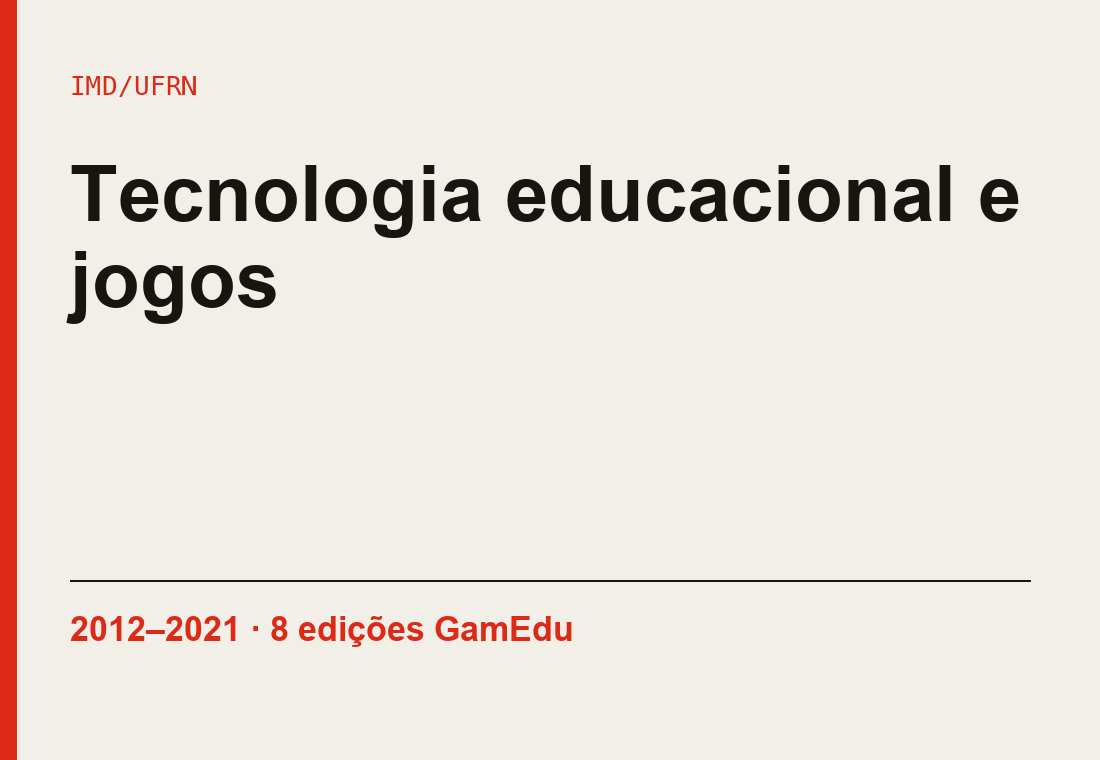
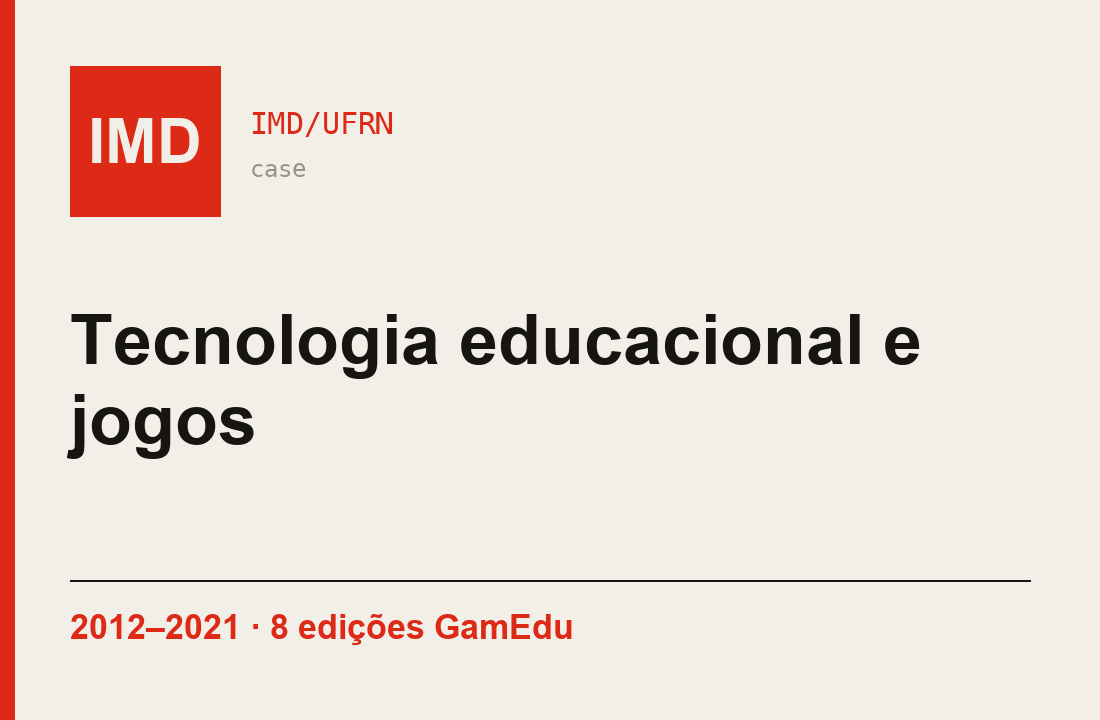
feat: home mais coesa, cases ampliados com capas-símbolo, CV completo, layout largo (1400px) e menos rolagem no desktop

diff --git a/assets/css/main.scss b/assets/css/main.scss
@@ -1,0 +1,57 @@
+---
+# Only the main Sass file needs front matter (the dashes are enough)
+---
+@charset "utf-8";
+
+/* Built-in Sass modules you’ll likely use across partials */
+@use "sass:math";
+@use "sass:string";
+
+/* Configure your design tokens BEFORE loading any of your partials.
+   Make sure `_sass/_variables.scss` declares `$max-content-width: 72rem !default;` */
+@use "variables" with (
+  $max-content-width: {{ site.max_width | default:  "930px" }}
+);
+
+/* Your project partials — convert these files to `@use "variables";`
+   (or `@use "variables" as *;`) inside each file and qualify variables if needed. */
+@use "themes";
+@use "layout";
+
+// Core styles organized by usage
+@use "typography";
+@use "navbar";
+@use "footer";
+@use "blog";
+@use "publications";
+@use "components";
+@use "utilities";
+
+// Other specialized styles
+@use "tabs";
+@use "teachings";
+@use "typograms";
+
+/* =========================================================
+   Customizações do site (Carlos Artur Guimarães)
+   Objetivo: ocupar melhor a tela do notebook e reduzir a
+   rolagem vertical no desktop (rolagem fica sobretudo no mobile).
+   ========================================================= */
+
+/* menos respiro no topo do conteúdo */
+.container.mt-5 { margin-top: 1.25rem !important; }
+
+/* ritmo vertical mais compacto no desktop */
+@media (min-width: 992px) {
+  .post p { margin-bottom: 0.65rem; line-height: 1.5; }
+  .post h1.post-title { margin-bottom: 0.35rem; }
+  .post h2 { margin-top: 1.1rem; margin-bottom: 0.5rem; }
+  .profile.float-right { margin-left: 2rem; margin-bottom: 0.5rem; }
+  /* cards de cases um pouco mais baixos */
+  .projects .grid-item, .projects .card { margin-bottom: 1rem; }
+  .projects .card-body { padding: 0.9rem 1rem; }
+}
+
+/* tabelas dos cases: compactas e sem rolagem horizontal desnecessária */
+.post table { font-size: 0.9rem; }
+.post table td, .post table th { padding: 0.3rem 0.6rem; }

diff --git a/_pages/about.md b/_pages/about.md
@@ -23,8 +23,12 @@ latest_posts:
   enabled: false
 ---
 
-Sou **Carlos Artur Guimarães**, consultor em **governança de dados educacionais (EMIS)**, Product Owner e pesquisador. Atuo na interseção entre governo digital, governança de dados e políticas educacionais — traduzindo política pública em produtos de dados, indicadores, arquitetura e rotinas de gestão que redes de ensino, ministérios e organismos internacionais conseguem executar.
+Sou **Carlos Artur Guimarães** — consultor em governança de dados educacionais, Product Owner e pesquisador. Trabalho no ponto em que a política pública encontra o dado: transformo diretrizes educacionais em sistemas, indicadores, arquiteturas e rotinas de governança que ministérios, organismos internacionais e redes de ensino conseguem operar no dia a dia.
 
-Meu trabalho se apoia em dois pilares. **(1) Governança de dados educacionais:** qualidade, catalogação e interoperabilidade de sistemas de larga escala, com DAMA-DMBOK, LGPD, ISO/IEC 38500 e COBIT. **(2) IA/GenAI aplicada:** produção e avaliação de materiais didáticos com IA generativa sob governança editorial, rubricas e rastreabilidade. Conduzi frentes com **MEC/SEB, UNESCO, Banco Mundial, BID, OEI e Instituto Unibanco**, além de redes estaduais e municipais.
+Minha atuação se organiza em **dois pilares que se reforçam**. O primeiro é a **governança de dados educacionais (EMIS)**: estruturo qualidade, catalogação, interoperabilidade e ciclos de decisão de sistemas de larga escala, ancorado em DAMA-DMBOK, LGPD, ISO/IEC 38500 e COBIT — do dado bruto à informação que um gestor público usa para agir. O segundo é a **IA/GenAI aplicada**: levo a inteligência artificial generativa para a educação pública com responsabilidade, na produção e avaliação de materiais didáticos sob governança editorial, com rubricas, ontologias, RAG e rastreabilidade.
 
-Mestre em Inovação em Tecnologias Educacionais (PPGITE/UFRN, 2025). Veja os **cases por ator** — com nota de governança de dados onde há sigilo contratual — e as **publicações**.
+Essa combinação se traduziu em frentes com **MEC/SEB, UNESCO, Banco Mundial, BID, OEI e Instituto Unibanco**, além de secretarias estaduais e redes municipais. Fui Product Owner de produtos de dados em escala estadual e nacional, consultor de governança na transição do **SGP 2.0 (Gestão Presente)**, Editor Geral de obras do **PNLD 2027** com IA generativa e analista em projetos de planejamento territorial — sempre conectando currículo, tecnologia, avaliação e formação docente.
+
+Minha base vem da tecnologia educacional: anos de EAD, jogos digitais, pensamento computacional e formação de professores no **IMD/UFRN**, que deram o rigor metodológico que hoje aplico a dados e IA. Sou **mestre em Inovação em Tecnologias Educacionais (PPGITE/UFRN, 2025)**, com bacharelado em Gestão de Políticas Públicas e licenciatura em Filosofia, e sigo me atualizando em Ciência de Dados (UNIVESP) e numa Residência em IA (Eldorado/PUC-Campinas).
+
+Explore os **cases por ator** — cada um com nota de governança onde há sigilo contratual —, as **publicações** e o **CV completo**. Estou aberto a consultorias, bancas e projetos.

diff --git a/_projects/1_mec.md b/_projects/1_mec.md
@@ -9,9 +9,16 @@ category: governança de dados
 
 > **Nota de governança de dados.** Em respeito ao sigilo contratual e às regras de governança do projeto, este case apresenta uma visão de alto nível — arquitetura e método —, sem expor dados sensíveis ou artefactos internos.
 
-**Desafio.** Fortalecer a gestão educacional e a interoperabilidade de dados da educação básica, articulando sistemas como SGP, GPE, CMDEB e a gestão de demanda por vaga em creche, rumo a uma infraestrutura nacional de dados da educação.
+**Contexto.** Projeto MEC/UNESCO voltado ao fortalecimento da gestão educacional, à interoperabilidade e ao uso padronizado de dados na educação básica. O escopo articula sistemas e iniciativas como **SGP, GPE, CMDEB** e a **gestão de demanda por vaga em creche**, com a discussão de uma **infraestrutura nacional de dados da educação**.
 
-**Papel e decisões.** Consultor de Governança / Product Owner. Conduzi cronogramas integrados, matriz de governança operacional, critérios de prontidão, pontos de controle, a transição do **SGP 2.0** e a internalização **Dataprev**, com referências de ITIL 4, PMBOK 7, ISO/IEC 38500, COBIT 2019, DAMA-DMBOK, LGPD e e-PING.
+**Papel.** Consultor de Governança e **Product Owner**, atuando em cronogramas integrados, matriz de governança operacional, critérios de prontidão, pontos de controle, a **transição para o SGP 2.0** e a **internalização Dataprev**, articulando equipes técnicas e áreas de gestão.
+
+**O que levei para a mesa.**
+
+- Produto técnico consolidado: cronograma integrado, roteiro analítico e critérios operacionais dos módulos.
+- Matriz de governança operacional para acompanhar entregas, riscos, dependências e sprints.
+- Análise de internalização, prontidão operacional, fluxos de deploy, backlog priorizado e ritos de governança.
+- Organização do referencial técnico: ITIL 4, PMBOK 7, ISO/IEC 38500, COBIT 2019, DAMA-DMBOK, LGPD e e-PING.
 
 **Escala do ambiente (documentada).**
 
@@ -23,6 +30,6 @@ category: governança de dados
 | Profissionais cadastrados | 220 mil |
 | Frequências mensais do Ensino Médio | ~95% |
 
-**Artefactos.** Produto técnico consolidado (cronograma integrado, roteiro analítico e critérios operacionais dos módulos) e matriz de governança operacional (entregas, riscos, dependências e sprints).
+**Em uma frase.** Estruturei instrumentos de governança para transformar sistemas educacionais complexos em uma operação acompanhável — cronogramas, critérios de prontidão, backlog, rotinas de decisão, matriz de riscos e indicadores que sustentam interoperabilidade e gestão baseada em dados.
 
 *A escala descreve o programa; não é atribuída como resultado individual.*

diff --git a/_projects/6_imd.md b/_projects/6_imd.md
@@ -7,10 +7,19 @@ importance: 3
 category: educação digital
 ---
 
-**Desafio.** Transformar tecnologia em aprendizagem concreta: jogos digitais, pensamento computacional, formação docente e materiais didáticos para cursos técnicos e educação básica.
+**Contexto.** Atuação em tecnologia educacional, jogos digitais, pensamento computacional, formação docente e materiais didáticos para cursos técnicos e educação básica no **Instituto Metrópole Digital (IMD/UFRN)**.
 
-**Papel e decisões.** Coordenador de Tutoria e de Professores Mediadores (EAD/Moodle, 2012–2021); coordenação no **GameLab/GAMEDU** e participação em **8 edições do Desafio GamEdu** (2014–2021); pesquisa e publicações em pensamento computacional, jogos digitais e learning analytics.
+**Papel.** **Coordenador de Tutoria e de Professores Mediadores** (EAD/Moodle, 2012–2021); coordenação no **GameLab/GAMEDU**; pesquisador e produtor de materiais didáticos.
+
+**O que construí.**
+
+- Produção e gestão de material didático para cursos técnicos EAD.
+- Participação no **GameLab** e em **8 edições do Desafio GamEdu** (2014–2021).
+- Projetos e publicações sobre pensamento computacional, jogos digitais, learning analytics e formação docente.
+- Articulação entre universidade, escola pública, design de jogos, metodologias ativas e tecnologia educacional.
 
 **Orientação (2019).** Orientou estudante do curso técnico do IMD/UFRN cujo projeto **Lucy** recebeu menção honrosa em desafio do Google Play. *O reconhecimento é da estudante.*
 
-**Produção associada.** Ver [publicações]({{ '/publications/' | relative_url }}) — incluindo *Arrow* (WIE/SBC, 2019).
+**Produção associada.** Ver [publicações]({{ '/publications/' | relative_url }}) — incluindo *Arrow* (WIE/SBC, 2019) e os trabalhos do **PENSA-RN**.
+
+**Em uma frase.** Minha base em tecnologias educacionais vem de anos de experimentação aplicada com jogos, materiais digitais, formação docente e pesquisa — o rigor metodológico que hoje aplico a dados e IA.

diff --git a/_projects/2_sigae.md b/_projects/2_sigae.md
@@ -9,9 +9,16 @@ category: governança de dados
 
 > **Nota de governança de dados.** Visão de alto nível, respeitando o sigilo do produto e das redes parceiras.
 
-**Desafio.** Apoiar a gestão educacional de redes estaduais com um produto digital de dados — indicadores, dashboards, acompanhamento pedagógico e rotinas de gestão.
+**Contexto.** O **SIGAE** é um sistema de apoio à gestão educacional em redes estaduais, integrando produto digital, dados, indicadores, acompanhamento pedagógico e rotinas de gestão.
 
-**Papel e decisões.** Analista de Dados Sênior e **Product Owner** (vínculo 2023–2025). Gestão de backlog e priorização, organização de demandas de dados e indicadores, articulação entre produto, tecnologia, dados e gestão pedagógica, e formação executiva de gestores públicos.
+**Papel.** **Analista de Dados Sênior e Product Owner** (vínculo 2023–2025), articulando times de produto, dados, tecnologia, gestão pedagógica e redes parceiras.
+
+**O que levei para a mesa.**
+
+- Gestão de backlog e priorização de funcionalidades, alinhando as necessidades das redes às entregas técnicas.
+- Organização de demandas de dados, indicadores, dashboards e uso pedagógico das informações.
+- Formação executiva de gestores públicos em governança de dados e indicadores educacionais.
+- Apoio aos ciclos de uso do sistema por secretarias, regionais e escolas.
 
 **Escala do ambiente (documentada).**
 
@@ -23,5 +30,7 @@ category: governança de dados
 | Gestores públicos formados | 50+ |
 
 **Reconhecimento.** "Profissional destaque Data Driven" (2024).
+
+**Em uma frase.** Conectei produto, dados e decisão educacional em escala estadual, traduzindo demandas de redes públicas em backlog, indicadores, formação e rotinas de uso.
 
 *A escala descreve o programa; não é atribuída como resultado individual.*

diff --git a/_projects/4_educacode.md b/_projects/4_educacode.md
@@ -7,9 +7,16 @@ importance: 1
 category: educação digital
 ---
 
-**Desafio.** Estruturar uma política municipal de educação digital — clubes de programação, cultura digital, pensamento computacional, robótica e STEAM — na rede do Recife.
+**Contexto.** Política municipal de **educação digital** no Recife — estudos de programação, clubes de programação, cultura digital, pensamento computacional, robótica e STEAM na rede municipal.
 
-**Papel e decisões.** Consultor responsável pela Fase I do Projeto OEI/BRA/22/003 (produtos P1–P6). Organização do **Framework RECIFE** (Raízes culturais, Educação ética, Colaboração, Inovação, Foco integral, Engajamento comunitário) e desenho de learning analytics, rubricas, portfólio digital e indicadores (IPPC, TPCT).
+**Papel.** Consultor responsável pela **Fase I do Projeto OEI/BRA/22/003**, com produtos **P1 a P6**.
+
+**O que levei para a mesa.**
+
+- Estruturação curricular e tecnológica do EducaCode.
+- Organização do **Framework RECIFE**: Raízes culturais, Educação ética, Colaboração, Inovação, Foco integral e Engajamento comunitário.
+- Proposta de **learning analytics, rubricas, portfólio digital e indicadores** (IPPC e TPCT).
+- Materiais e referências para programação, robótica, pensamento computacional e cultura digital.
 
 **Escala (documentada).**
 
@@ -19,3 +26,5 @@ category: educação digital
 | Clubes de programação | 50 |
 
 **Stack.** Moodle/EducaRec, Scratch Junior, micro:bit, Tinkercad, Scratch, Python, Arduino, Fritzing, Teachable Machine e Power BI.
+
+**Em uma frase.** Ajudei a estruturar uma política municipal de educação digital que combina clubes de programação, currículo, formação, recursos digitais, avaliação e indicadores para ampliar o acesso a letramentos computacionais.

diff --git a/_projects/5_trilhaia.md b/_projects/5_trilhaia.md
@@ -9,13 +9,17 @@ category: educação digital
 
 > **Nota de governança editorial.** Visão de alto nível do método; artefactos e dados de produção permanecem sob sigilo editorial.
 
-**Desafio.** Produzir e avaliar material didático (coleção "Educação Digital", PNLD 2027) com IA generativa **controlada** — não apenas gerar texto, mas governar estrutura, qualidade, alinhamento curricular, revisão e rastreabilidade.
+**Contexto.** Produção e avaliação de material didático (coleção "Educação Digital", **PNLD 2027**) com **IA generativa controlada** — não apenas gerar texto, mas governar estrutura, qualidade, alinhamento curricular, revisão, evidências e integração com ambientes digitais de aprendizagem.
 
-**Papel e decisões.** Editor Geral e concepção do **TRILHA-IA**, motor de produção com IA generativa:
+**Papel.** **Editor Geral** e concepção do **TRILHA-IA**, motor de produção de material didático com IA generativa.
+
+**Decisões técnicas.**
 
 - Arquitetura dual de LLMs e **pipeline de 7 estágios**.
 - **JSON Schema** com 28 campos, ontologia controlada e **rubrica RV-DIA de 10 dimensões**.
-- **RAG** (sqlite-vec / BGE-m3), LoRA/QLoRA.
-- Integração com H5P, SCORM, cmi5, xAPI, BPMN 2.0 e Moodle.
+- **RAG** com sqlite-vec / BGE-m3, **LoRA/QLoRA** para adaptação.
+- Integração com **H5P, SCORM, cmi5, xAPI, BPMN 2.0 e Moodle**.
 
 **Resultado.** Qualidade editorial, alinhamento curricular, aprendizagem ativa e rastreabilidade integrados em um fluxo único de produção.
+
+**Em uma frase.** Desenvolvi uma abordagem de IA educacional voltada à produção didática com critério — controlar estrutura, qualidade, alinhamento, revisão, evidências e integração, não apenas gerar texto.

diff --git a/_projects/3_goias.md b/_projects/3_goias.md
@@ -7,9 +7,16 @@ importance: 3
 category: governança de dados
 ---
 
-**Desafio.** Planejamento estratégico de longo prazo para orientar políticas públicas e o desenvolvimento econômico, social e territorial de Goiás até 2050.
+**Contexto.** Projeto de **planejamento estratégico de longo prazo** para orientar políticas públicas e o desenvolvimento econômico, social e territorial de Goiás até 2050.
 
-**Papel e decisões.** Análise de capital humano, dados socioeconômicos e indicadores territoriais; modelo de vetores de desenvolvimento humano e social; cenários quantitativos.
+**Papel.** Frente de **Capital Humano**: análise de dados socioeconômicos, indicadores territoriais e cenários de desenvolvimento.
+
+**O que levei para a mesa.**
+
+- Consolidação de evidências sobre desenvolvimento regional, capital humano e combate à pobreza.
+- Análise territorial de municípios e regiões de planejamento.
+- Modelo de **vetores de desenvolvimento humano e social**.
+- Cenários 2050 com técnicas quantitativas (Holt exponencial, ARIMA e combinação ponderada).
 
 **Escala (documentada).**
 
@@ -19,4 +26,6 @@ category: governança de dados
 | Regiões de planejamento | 10 |
 | Cenários estratégicos até 2050 | 3 |
 
-**Stack.** Bases IBGE/PNAD/CAGED/RAIS, IPEA, IMB-GO, OCDE/PISA, PNUD, Banco Mundial e FMI; Python/R e Looker; técnicas de Holt exponencial, ARIMA e combinação ponderada.
+**Bases e ferramentas.** IBGE, PNAD, CAGED, RAIS, IPEA, IMB-GO, SEPLAN-GO, OCDE/PISA, UNESCO, PNUD, Banco Mundial e FMI; Python/R e Looker.
+
+**Em uma frase.** Traduzi dados educacionais, demográficos e socioeconômicos em leitura territorial e cenários de longo prazo para apoiar planejamento público orientado por evidências.
